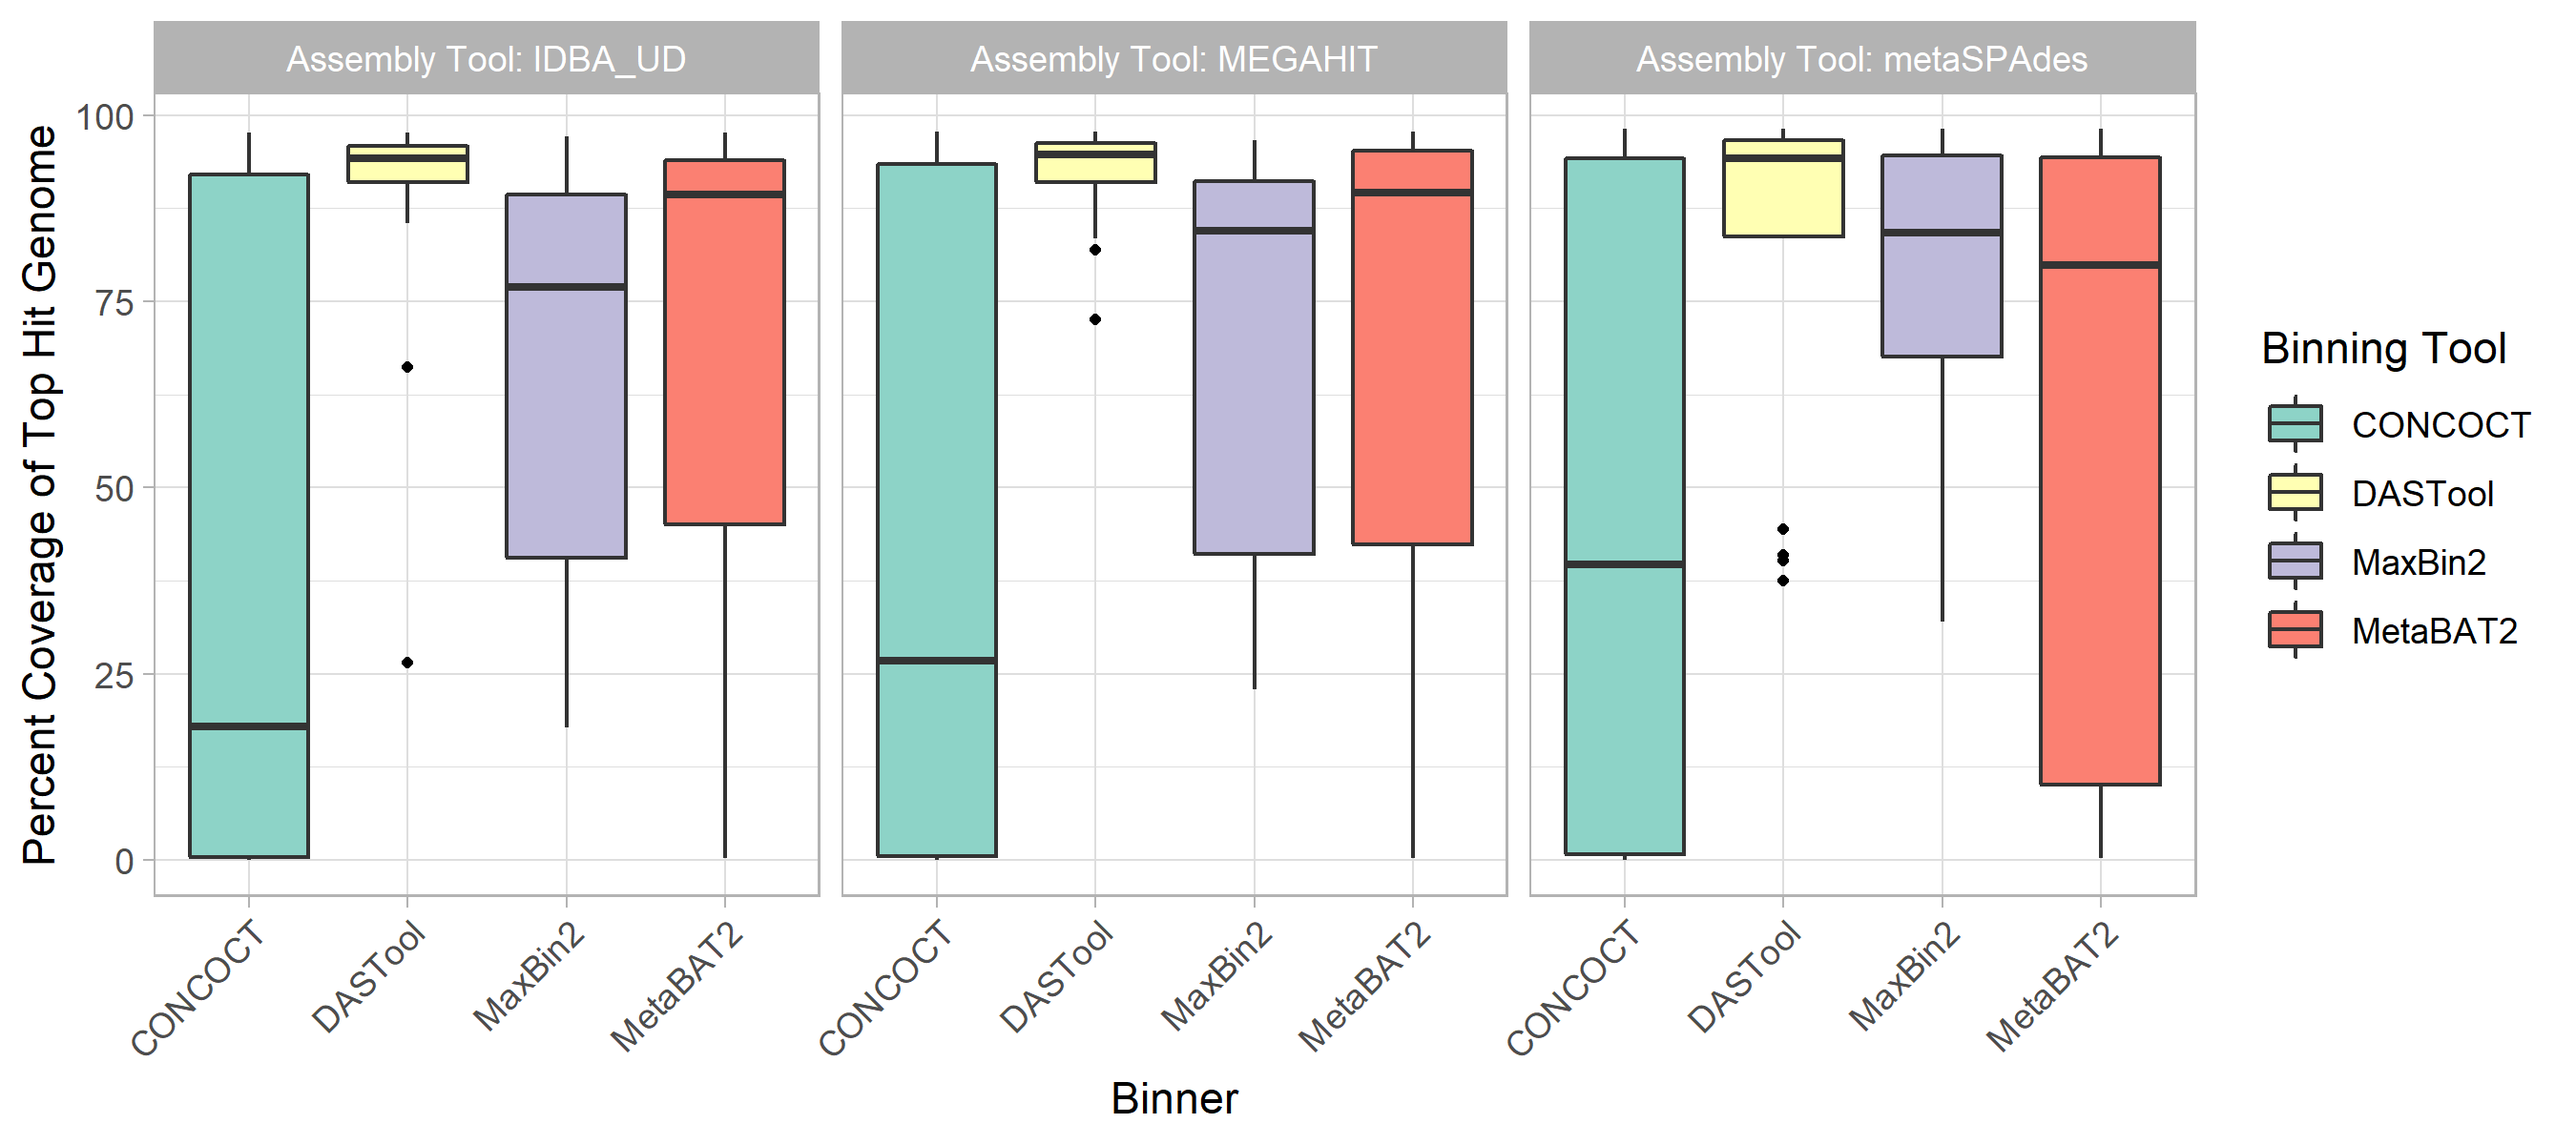
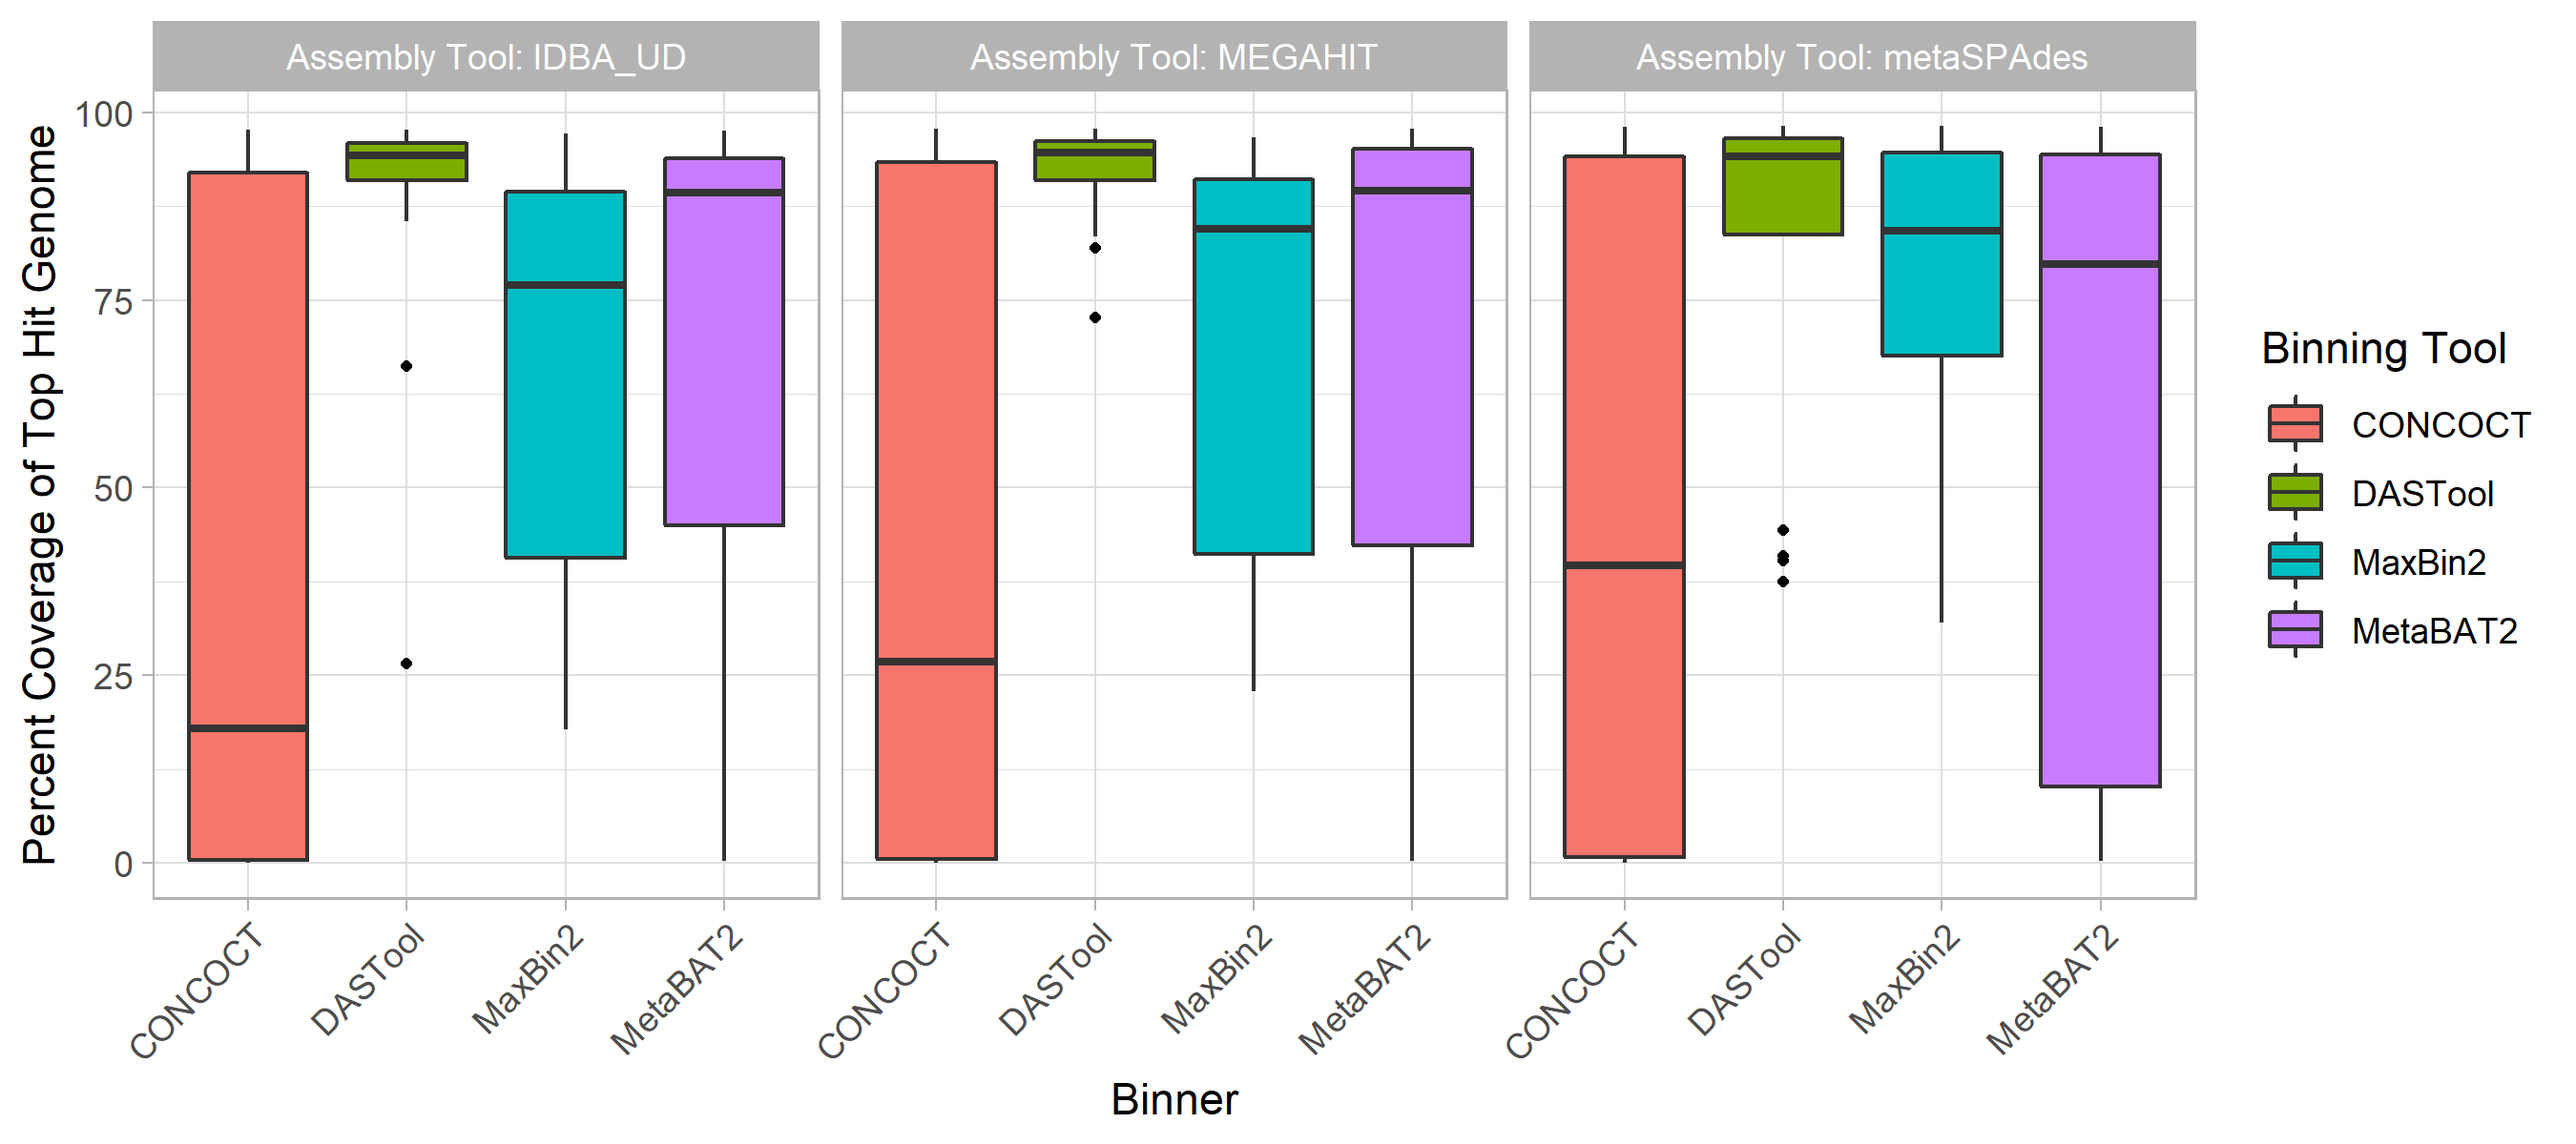
revised draft with additional content and updated figures for color consistency

diff --git a/content/02.introduction.md b/content/02.introduction.md
@@ -6,7 +6,6 @@ Metagenomic techniques are now bein used to profile antimicrobial resistance (AM
 These approaches have been instrumental in developing our understanding of the distribution and evolutionary history of AMR genes [@doi:10.1016/j.cell.2014.08.032; @doi:10.1016/j.mib.2007.08.009; @doi:10.1038/nature10388], as well as tracking pathogen outbreaks [@doi:10.1001/jama.2013.3231].
 
 While long-read DNA sequencing technology (e.g., Oxford Nanopore [@doi:10.1111/1755-0998.12324], PacBio [@doi:10.1126/science.1162986]) is now being used for metagenomic sequencing [@doi:10.1093/gigascience/giz043; @doi:10.1186/s12866-019-1500-0],  high-throughput sequencing of relatively short reads (150-250bp) in platforms such as the Illumina MiSeq currently dominate metagenomic analyses.
-
 Inference of taxonomic and functional diversity can be assessed directly from sequenced reads using reference databases and BLAST-based sequence similarity search tools (e.g. DIAMOND [@doi:10.1038/nmeth.3176]), read mapping (e.g. Bowtie 2 [@doi:10.1038/nmeth.1923]), Hidden Markov Models (e.g. HMMER3 [@doi:10.1093/bioinformatics/btt403]) or k-mer hashing (e.g. CLARK [@doi:10.1186/s12864-015-1419-2]). 
 These read-based approaches allow analysis of all reads with detectable similarity to genes of interest even if the organism has relatively low abundance in the sample.
 Since these reads are shorter than most genes, however, read-based methods provide very little information about the genomic organisation of genes.
@@ -35,10 +34,11 @@ GIs often have different nucleotide composition compared to the rest of the geno
 This compositional difference is exploited by tools designed to detect GIs such as SIGI-HMM [@doi:10.1186/1471-2105-5-22] and IslandPath-DIMOB [@doi:10.1093/bioinformatics/bty095]. 
 GIs may exist as multiple copies within a genome [@doi:10.1093/bib/bby042] leading to potential difficulties in correctly assembling these regions in metagenome assemblies as well as likely biases in the calculation of coverage statistics. 
 
-Similarly, plasmids, circular or linear extrachromosomal self-replicating pieces of DNA, are a major source of the dissemination of AMR genes throughout microbial ecosystems [@pmid:26603922; @doi:10.3389/fmicb.2016.00173]. 
-%%% PLASMID PARA TO ADD %%%
-%Due to their research importance, lots of work has identified the difficulty of assembling these sequences correctly from short-read data [@doi:10.1099/mgen.0.000128,@doi:10.1099/mgen.0.000206].
-%This is largely attributable to their repetitive sequences, variable copy number [@doi:10.1038/s41559-016-0010; @doi:10.1128/AAC.00235-15] and often markedly different sequence composition to the genome they are associated with [@doi:10.1093/bioinformatics/btq299; @doi:10.1093/molbev/msp281]. 
+Plasmids are circular or linear extrachromosomal self-replicating pieces of DNA. 
+Similar to GIs, plasmids's sequence composition are markley different compared to the genome they are associated with [@doi:10.1093/bioinformatics/btq299; @doi:10.1093/molbev/msp281]. 
+This is largely attributable to their repetitive sequences, variable copy number, and different selection pressures [@doi:10.1038/s41559-016-0010; @doi:10.1128/AAC.00235-15].
+Plasmids are of great research importance, they are a major source of the lateral dissemination of AMR genes throughout microbial ecosystems [@pmid:26603922; @doi:10.3389/fmicb.2016.00173]. 
+Due to these reasons, the correct assembly of DNA sequence of plasmid origin has proven to be difficult from short read data [@doi:10.1099/mgen.0.000128,@doi:10.1099/mgen.0.000206].
 
 GIs and plasmids pose significant challenges in MAG recovery due to their unusual sequence compositon and relativel abundance; as these MGEs are key to the function and spread of pathogenic traits such as AMR and virulence, it is vital that we assess the impact of metagenome assembly and binning on the representation of these specific elements. 
 This is particularly important with the increasing popularity of MAG approaches within microbial and public health research. 

diff --git a/content/05.discussion.md b/content/05.discussion.md
@@ -24,7 +24,8 @@ Regardless of tools, chromosomally located AMR genes were most frequently correc
 While there was variability in performance, AMR genes located on GIs were correctly binned slightly less well than chromosomally located AMR genes.
 This variability might be explained by the fact that there were only 11 AMR genes located on GIs in our reference genomes.
 All 20 of the plasmid-borne AMR genes were assembled, but none were placed into MAG bins.
-This included high-threat MGEs-associated AMR genes such as the KPC and OXA carbapenemases.
+We included high-threat MGEs-associated AMR genes such as the KPC and OXA carbapenemases. 
+We intended on a systematic review of which AMR genes are more or less likely end up correctly binned, however, MAGs was not able to correctly bin enough AMR genes on plasmids or GIs to allow this. 
 
 Virulence factors showed a similar trend to the AMR genes, with a recovery of ~63% of virulence factors present in the reference genomes.
 There still is a sharp decline in the number of VF detected between assemblies and MAGs and CONCOCT-metaSPAdes again produced the highest binning accuracy.
@@ -33,6 +34,10 @@ However, the MAG approach performed much worse in correctly recovering GI locate
 This drastic reduction in recovery accuracy of mobile elements, especially GIs, is expected.
 Previous studies have found that VFs are disproportionally present on GIs[@doi:10.1371/journal.pone.0008094], which might be the reason why the recovery accuracy was worse compared to AMR genes.
 Together, this and the AMR gene results suggests that MAG-based methods might be of limited utility in public health research focused on the transmission and dissemination of AMR genes and VFs. 
+
+One potential caveat is that some AMR genes and VFs successfully assembled in the MAGs may no longer be annotated as such due to issues with ORF prediction (see suppl. discussion & Fig. @fig:geneContent). 
+Previous studies have observed that ORF predictions in draft genomes are more fragmented, which can lead to downstream over- or under-annotation with functional labels depending on the approach used [@10.1186/1471-2164-13-14]. 
+Similarly, if the ORFs predicted in the MAGs differ in sequence or degree of fragmentation from the corresponding ORFs predicted in the original reference genomes (or are no longer predicted at all), this could impact recovery of AMR/VF predictions, even though the sequences themselves may be partially or fully present in the assembly.
 
 It should also be noted that while CONCOCT performed the best in terms of recovery of both chromosomes and MGEs, it created lots of relatively clean but fragmentary partial MAGs.
 While this might be ideal for some users, caution should be taken in using CONCOCT when assuming a bin represents a whole genome.

diff --git a/content/07.supplementals.md b/content/07.supplementals.md
@@ -1,5 +1,18 @@
 ## Supplementals {#supplementals}
 
+### Recovery of Specific Gene Content
+
+We then explored the ability of different approaches to find open reading frames (ORFs) within MAGs.
+Overall, the total number of predicted ORFs in MAGs followed a similar trend (Fig. @fig:geneContent) as the chromosomal coverage (Fig. @fig:chromcover) and purity (Fig. @fig:purity).
+Of the four binning tools, CONCOCT performed the worst, finding <30% of the number of ORFs in our reference genomes used to construct the synthetic data.
+MetaBAT2 performed second worst at ~80%.
+DASTool recovered a similar number to our reference and Maxbin2 seemed to predicted 7-46% more genes.
+The Assembler method did not significantly impact the number of genes predicted with the exception of Maxbin2, in which IDBA_UD was the closest to reference and metaSPAdes predicted 46% more ORFs.
+Given that there is reason to suspect that there are some issues with the ORF calling in the MAGs. i.e. some tools produced more predicted ORFs than reference, it could be the case that some of these sequences are present in the assemblies (with errors/gaps), but are not being identified as ORFs, or are broken into mulpitle ORFs, leading to issues downstream labeling them correctly as AMR/VF genes. 
+Regardless of different tools producing a different number of ORFs, the recovery of AMR/VF is pretty consistent regardless of how many ORFs are predicted.
+
+![Predicted Gene Content. The total number of open reading frames (ORF) predicted followed the same trend as chromosomal coverage and purity. The assemblers (colored bars) did not contribute to a big variance in the number of ORFs. Of the 4 binners, CONCOCT recovered \<30\% of our reference genome ORFs. DASTool and MetaBAT2 predicted a similar number as our reference genomes.](images/number_of_predicted_genes.png){#fig:geneContent}
+
 ### Impact of Related Genomes on MAG
 
 ![Evaluation of impact of phylogenetic distance to closest neighbour input genome on genomic coverage in MAG majority comprised of that taxa. Each dot represents the genomic coverage of a particular taxa and the branch distance on an 86-protein concatenated phylogeny between that taxa and its nearest neighbour. Rows indicating the binning software and columns the metagenomic assembler. Regression line is a simple linear model fitted in seaborn. ](images/coverage_phylo_dist.png){#fig:coverphylo}

diff --git a/content/04.results.md b/content/04.results.md
@@ -51,17 +51,6 @@ In terms of overall correct binning with the chromosomes from the same genome th
 
 ![Impact of metagenomic assembly and MAG binning on recovery of genomic islands. GIs were recovered in a similarly poor fashion to plasmids. Generally, \<40% were correctly assigned to the same bin majorly comprised of chromosomal contigs from the same source genome regardless of binning (x-axis) and assembly (facet) methods at >50% coverage. metaSPAdes performed the best at assembling GIs (blue). Maxbin2 and CONCOCT placed GIs in a bin majority of the time (orange) however a very small fraction was correctly binned (green). Generally, GIs were correctly binned better than plasmids with DASTool, MetaBAT2 and CONCOCT.](images/GI_recovery.png){#fig:gis}
 
-### Recovery of Specific Gene Content
-
-We then explored the ability of different approaches to find open reading frames (ORFs) within MAGs.
-Overall, the total number of predicted ORFs in MAGs followed a similar trend (Fig. @fig:geneContent) as the chromosomal coverage (Fig. @fig:chromcover) and purity (Fig. @fig:purity).
-Of the four binning tools, CONCOCT performed the worst, finding <30% of the number of ORFs in our reference genomes.
-MetaBAT2 performed second worst at ~80%.
-DASTool recovered a similar number to our reference and Maxbin2 seemed to predicted 7-46% more genes.
-The Assembler method did not significantly impact the number of genes predicted with the exception of Maxbin2, in which IDBA_UD was the closest to reference and metaSPAdes predicted 46% more ORFs.
-
-![Predicted Gene Content. The total number of open reading frames (ORF) predicted followed the same trend as chromosomal coverage and purity. The assemblers (colored bars) did not contribute to a big variance in the number of ORFs. Of the 4 binners, CONCOCT recovered \<30\% of our reference genome ORFs. DASTool and MetaBAT2 predicted a similar number as our reference genomes.](images/number_of_predicted_genes.png){#fig:geneContent}
-
 #### AMR Genes
 
 The recovery of AMR genes in MAGs was poor with only ~49-55% of all AMR genes predicted in our reference genomes regardless of the assembly tool used, and metaSPAdes performing marginally better than other assemblers (Fig. @fig:AMRGenePercentRecoveryStage).
